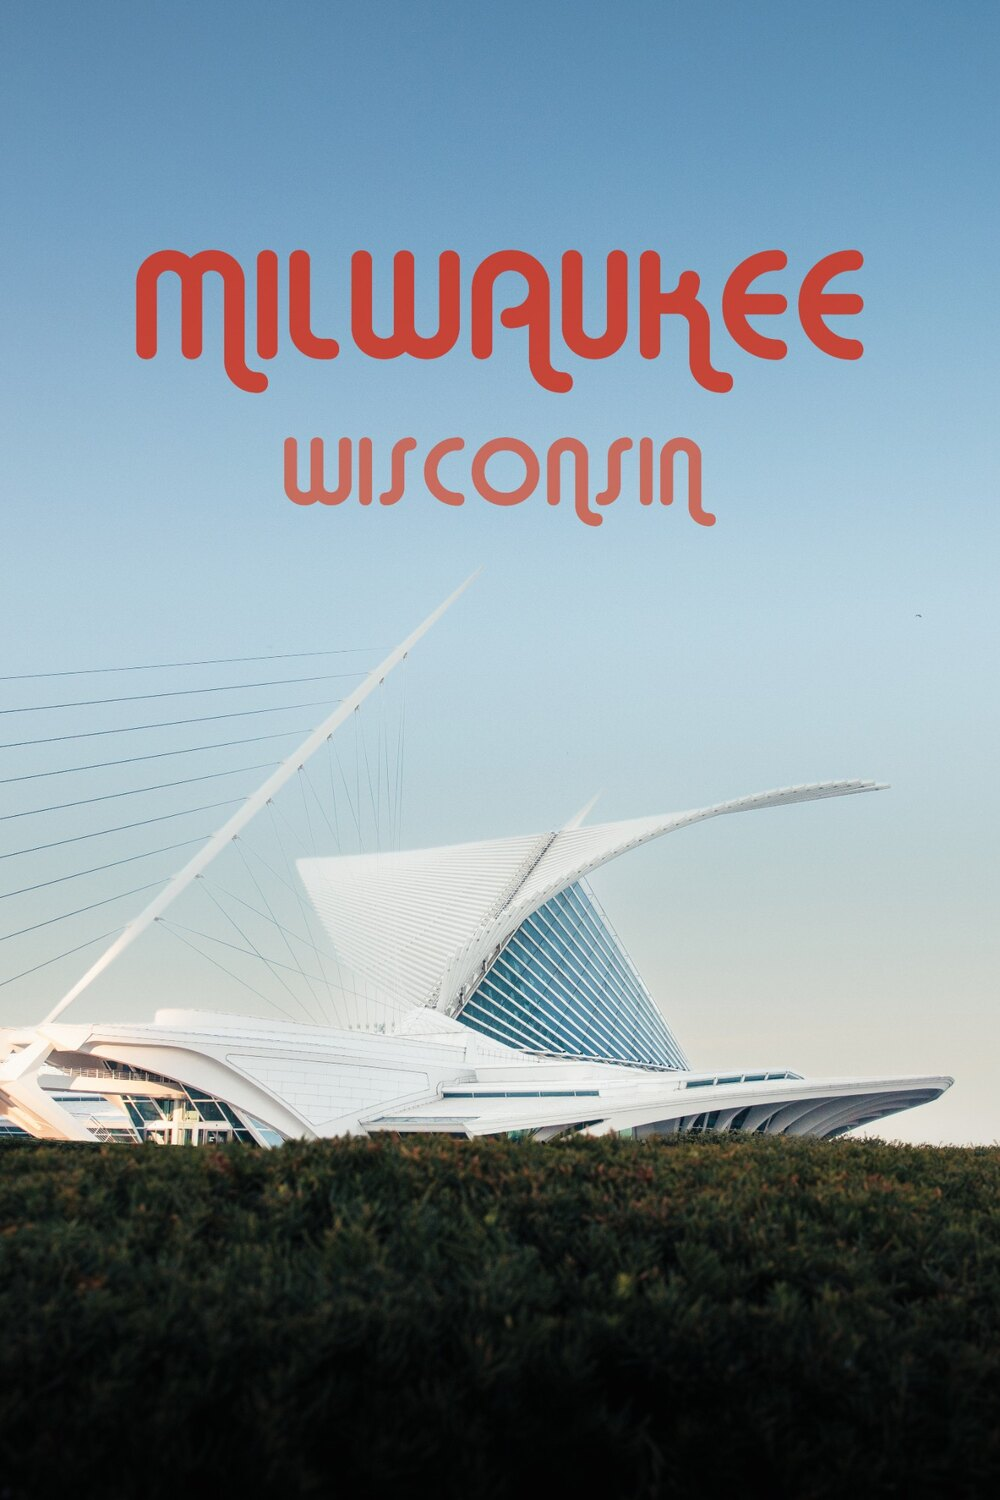
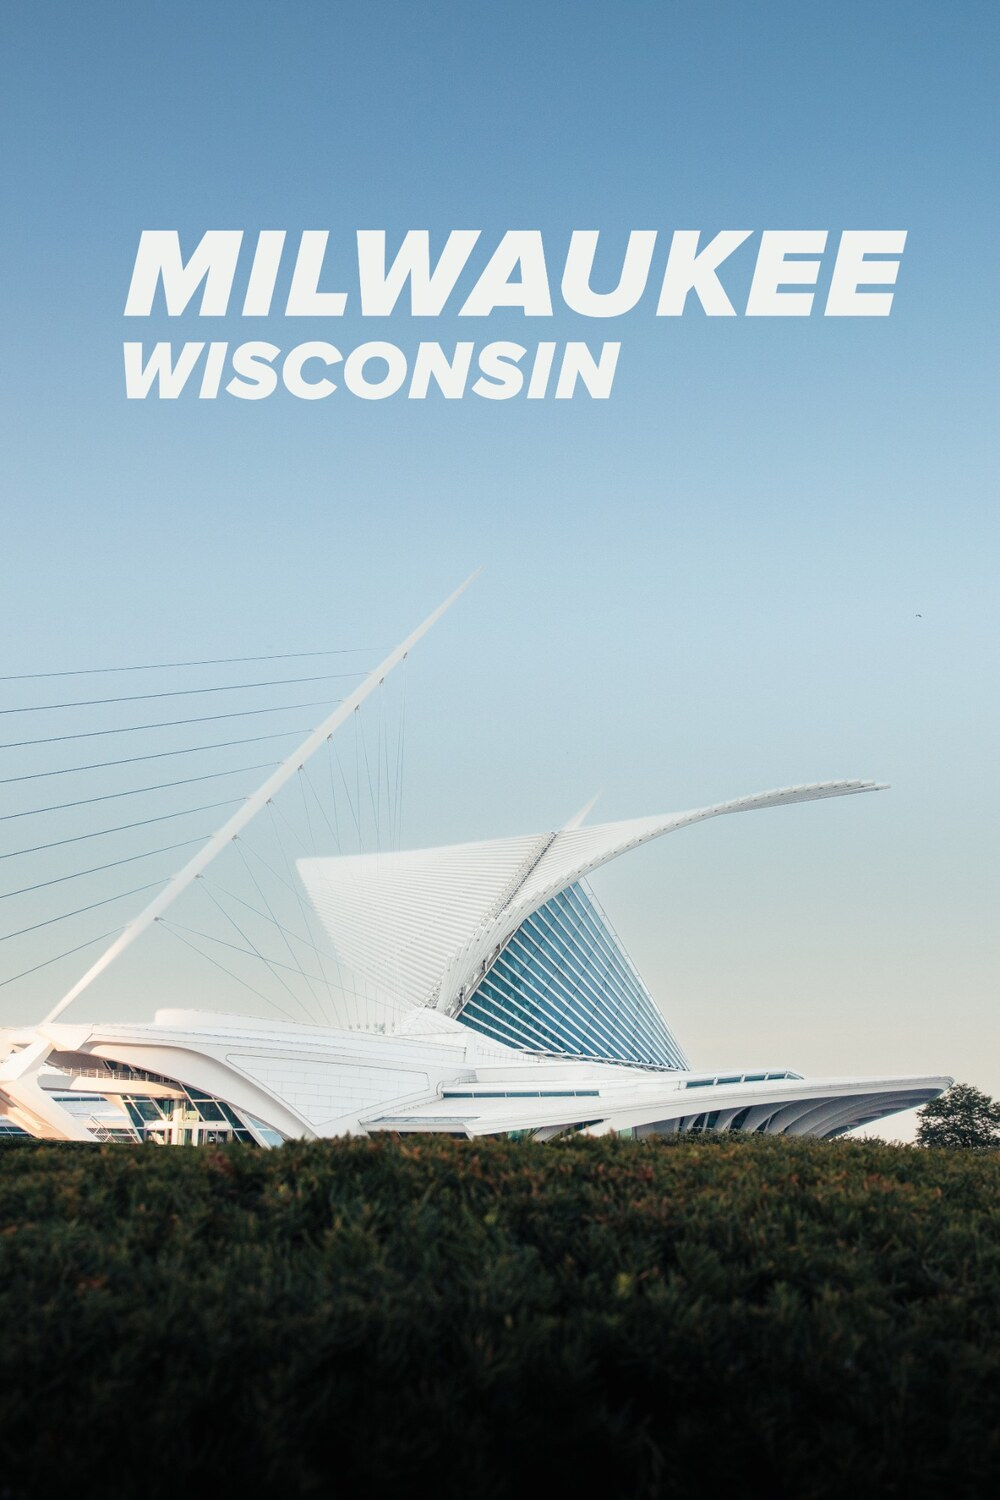
Archive: new Milwaukee cover; cover tiles at 2:3 ratio

Changed region(s): [[0.124, 0.1533, 0.93, 0.368], [0.899, 0.7053, 1.0, 0.7667]]

diff --git a/licensing.html b/licensing.html
@@ -26,7 +26,7 @@
         .lic-intro h1 { font-size: 2.5rem; margin-bottom: 1rem; }
         .lic-intro p { max-width: 640px; color: #555; font-size: 1rem; line-height: 1.8; }
         .cover-grid { max-width: 1200px; margin: 0 auto 4rem; padding: 0 1.2rem; display: grid; grid-template-columns: repeat(3, 1fr); gap: 1rem; }
-        .cover-card { position: relative; display: block; aspect-ratio: 4 / 5; overflow: hidden; background: #1a1a1a; color: #ffffff; text-decoration: none; }
+        .cover-card { position: relative; display: block; aspect-ratio: 2 / 3; overflow: hidden; background: #1a1a1a; color: #ffffff; text-decoration: none; }
         .cover-card img { position: absolute; inset: 0; width: 100%; height: 100%; object-fit: cover; transition: transform 0.5s ease; }
         .cover-card:hover img { transform: scale(1.04); }
         .cover-overlay { position: absolute; inset: 0; display: flex; flex-direction: column; justify-content: flex-end; padding: 1.25rem; background: linear-gradient(to top, rgba(0,0,0,0.75) 0%, rgba(0,0,0,0) 55%); }
